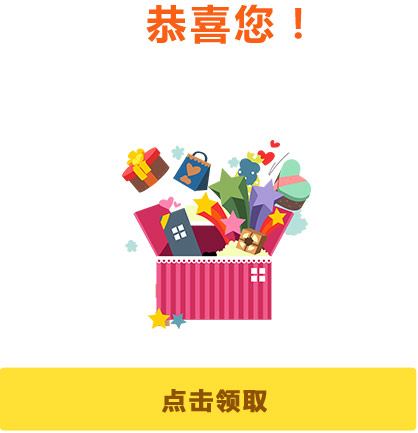
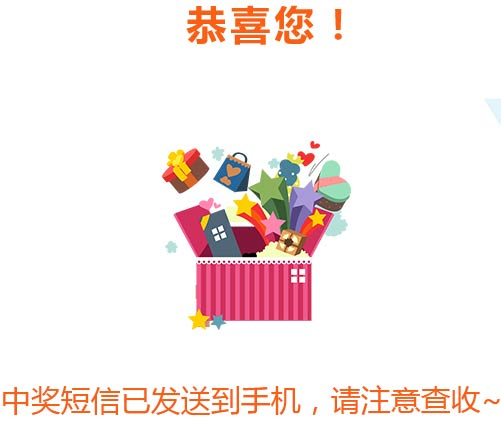
update

diff --git a/business/dazhuanpan/index.vue b/business/dazhuanpan/index.vue
@@ -4,10 +4,13 @@
         <div class="bg bg_2"></div>
         <div class="bg bg_3"></div>
 
-        <div class="title-head"><img :src="images.title" alt=""></div>
+        <div class="title-head" :class="{height: !activity_desc}">
+            <img v-show="activity_desc" :src="images.title" alt="">
+            <img v-show="!activity_desc" :src="images.title_1" alt="">
+        </div>
         
         <!-- 大转盘。有盘阴影 -->
-        <div class="lottery">
+        <div class="lottery" >
             <!-- 大转盘可转动部分 -->
             <div id="lottery" class="cont">
                 <!-- 大转盘背景 -->
@@ -22,7 +25,8 @@
                 <img :src="images.zp_btn_3" class="inner" alt="" @click="lotteryClick">
             </div>
             <!-- 活动规则按钮 -->
-            <img :src="images.rule" alt="" class="rule" @click="ruleWinShow">
+            <!-- <img :src="images.rule" alt="" class="rule" @click="ruleWinShow" :style="visibility: activity_desc?'visible':'hidden'"> -->
+            <img :src="images.rule" alt="" class="rule" @click="ruleWinShow" v-show="activity_desc">
             <!-- 我的奖品 -->
             <img :src="images.owner" alt="" class="owner" @click="ownerClick" v-show="loginParams.puid">
         </div>
@@ -44,7 +48,7 @@
             <!-- 关闭 -->
             <img :src="images.win_close" alt="" class="win_close" @click="hideWin">
             <!-- 铺盖内容 -->
-            <div class="tip-show" :class="[statusWin]">
+            <div class="tip-show" :class="[statusWin]"> <!-- 根据不同的状态显示不同的背景 -->
                 <div class="tip-button" @click="tipButtonClick"></div>
                 <!-- 登录专享 -->
                 <div v-show="statusWin == 'status-login'">
@@ -62,12 +66,16 @@
                         <div class="inner" @click="getCode" v-show="downNum >= 0 && downNum <= 60">{{downNum}}s</div>
                     </div>
                 </div>
+                <!-- 未开始专享 -->
+                <div v-show="statusWin == 'status-un'" class="status-msg" :style="status_msg">
+                    活动将于{{activity_begin}}开始
+                </div>
                 <!-- 中奖专享 -->
-                <div v-show="statusWin == 'status-in'" class="status-in-msg" :style="status_msg">
+                <div v-show="statusWin == 'status-in'" class="status-msg" :style="status_msg">
                     获得{{gift_name}}
                 </div>
                 <!-- 错误提示专享 -->
-                <div v-show="statusWin == 'status-error'" class="status-error-msg" :style="status_msg">
+                <div v-show="statusWin == 'status-error'" class="status-msg" :style="status_msg">
                     {{errorMsg}}
                 </div>
             </div>
@@ -77,6 +85,9 @@
             <img :src="images.win_owner" alt="" class="win_img_bg">
             <img :src="images.win_close" alt="" class="win_close" @click="hideWin">
             <div class="win_owner-list">
+                <div v-show="myorder && myorder.length < 1" class="status-msg" :style="status_msg">
+                    还没有奖品
+                </div>
                 <div class="win_owner-item" v-for="(item, index) in myorder" 
                     :class="{isUsed: item.status === 1, isExpried: item.status === 2}"
                     :style="owner_radius">
@@ -145,7 +156,7 @@
             },
             initSize(){
                 setTimeout(()=>{
-                    $("body").css("font-size", 20 * $("body").width() / 750 + "px")
+                    $(".p-dazhuanpan-index").css("font-size", 20 * $("body").width() / 750 + "px")
                     $(".code-msg .inner").css("line-height", $(".code-msg .inner").height() + "px");
                     $(".status-login .error").css("line-height", $(".status-login .error").height() + "px");
                     // $(".status-in-msg").css({
@@ -198,7 +209,7 @@
             },
             load_local(){
                 Service.getPrizeList();
-            },
+            }, 
             lotteryClick(){
                 if(Data.loading) return;
 

diff --git a/business/dazhuanpan/index.less b/business/dazhuanpan/index.less
@@ -37,6 +37,11 @@
 
         img{
             width: 100%;
+            z-index: 100;
+        }
+
+        &.height{
+            z-index: 10;
         }
     }
     
@@ -185,9 +190,22 @@
             transform: translateY(-100%);
         }
     }
+    .status-msg{ 
+        position: absolute;
+        width: 100%;
+        height: 100% * 40 / 433;
+        line-height: 1.3;
+        text-align: center;
+        color: #f95f15;
+        top: 100% * 65 / 433;
+        left: 0;
+        font-weight: 700;
+        letter-spacing: 0.3rem;
+    }
     // 活动规则弹窗
     .win_rule{
         top: 55%;
+        overflow: hidden;
         .content{
             position: absolute;
             width: 100% * 283 / 348;
@@ -197,6 +215,8 @@
             overflow-wrap: break-word;
             word-break: break-all;
             word-wrap: break-word;
+            height: 100% * 400 / 505;
+            overflow-x: scroll;
 
             .title{
                 font-weight: 700;
@@ -229,18 +249,10 @@
         }
         .status-in{
             background-image: url(./images/status-in.jpg);
+            width: 100% * 501 / 620;
 
-            .status-in-msg{ 
-                position: absolute;
-                width: 100%;
-                height: 100% * 40 / 433;
-                line-height: 1.3;
-                text-align: center;
-                color: #f95f15;
+            .status-msg{ 
                 top: 100% * 65 / 433;
-                left: 0;
-                font-weight: 700;
-                letter-spacing: 0.3rem;
             }
         }
         .status-out{
@@ -248,23 +260,20 @@
         }
         .status-un{
             background-image: url(./images/status-un.jpg);
+            .status-msg{
+                top: 100% * 15 / 433;
+                width: 120%;
+                left: -9%;
+                letter-spacing: 0;
+            }
         }
         .status-end{
             background-image: url(./images/status-end.jpg);
         }
         .status-error{
             background-image: url(./images/status-error.jpg);
-            .status-error-msg{ 
-                position: absolute;
-                width: 100%;
-                height: 100% * 40 / 433;
-                line-height: 1.3;
-                text-align: center;
-                color: #f95f15;
+            .status-msg{
                 top: 100% * 95 / 433;
-                left: 0;
-                font-weight: 700;
-                letter-spacing: 0.3rem;
             }
         }
         .status-no{
@@ -344,6 +353,9 @@
             overflow-y: auto;
             left: 50%;
             transform: translateX(-50%);
+            .status-msg{
+                top: 100% * 250 / 716;
+            }
 
             .win_owner-item{
                 width: 100%;

diff --git a/business/dazhuanpan/service.js b/business/dazhuanpan/service.js
@@ -59,10 +59,14 @@ let service = {
         Vue.http.post('/ffapi/activity/useable/activity', {
             merchant_id: Data.merchant_id
         }).then(function(data){
-            Data.statusOpen = data.body.result.status;
-            Data.prizes = data.body.result.winning_gifts;
-            Data.activity_id = data.body.result.id;
-            Data.activity_desc = (data.body.result.desc + '').replace(/([^>\r\n]?)(\r\n|\n\r|\r|\n)/g, '$1<br\>$2');
+            let temp = data.body.result;
+            if(!temp) return;
+
+            Data.statusOpen = temp.status;
+            Data.prizes = temp.winning_gifts;
+            Data.activity_id = temp.id;
+            Data.activity_desc = (temp.desc + '').replace(/([^>\r\n]?)(\r\n|\n\r|\r|\n)/g, '$1<br\>$2');
+            Data.activity_begin = temp.start_time;
             Lottery.setPrizes(Data.prizes, "id");
 
             Data.loading = false;

diff --git a/business/dazhuanpan/data.js b/business/dazhuanpan/data.js
@@ -13,6 +13,8 @@ let data = {
     activity_id: undefined,
     // 活动规则
     activity_desc: undefined,
+    // 活动开始时间
+    activity_begin: undefined,
     // 商户id
     merchant_id: '001',
     // 中奖信息
@@ -44,6 +46,7 @@ let data = {
         zp_2: require("./images/zp2.png"),
         zp_btn_3: require("./images/zp_btn_3.png"),
         title: require("./images/title.png"),
+        title_1: require("./images/title_1.png"),
         gif: require("./images/gif.gif"),
         rule: require("./images/rule.png"),
         win_rule: require("./images/win_rule.png"),
